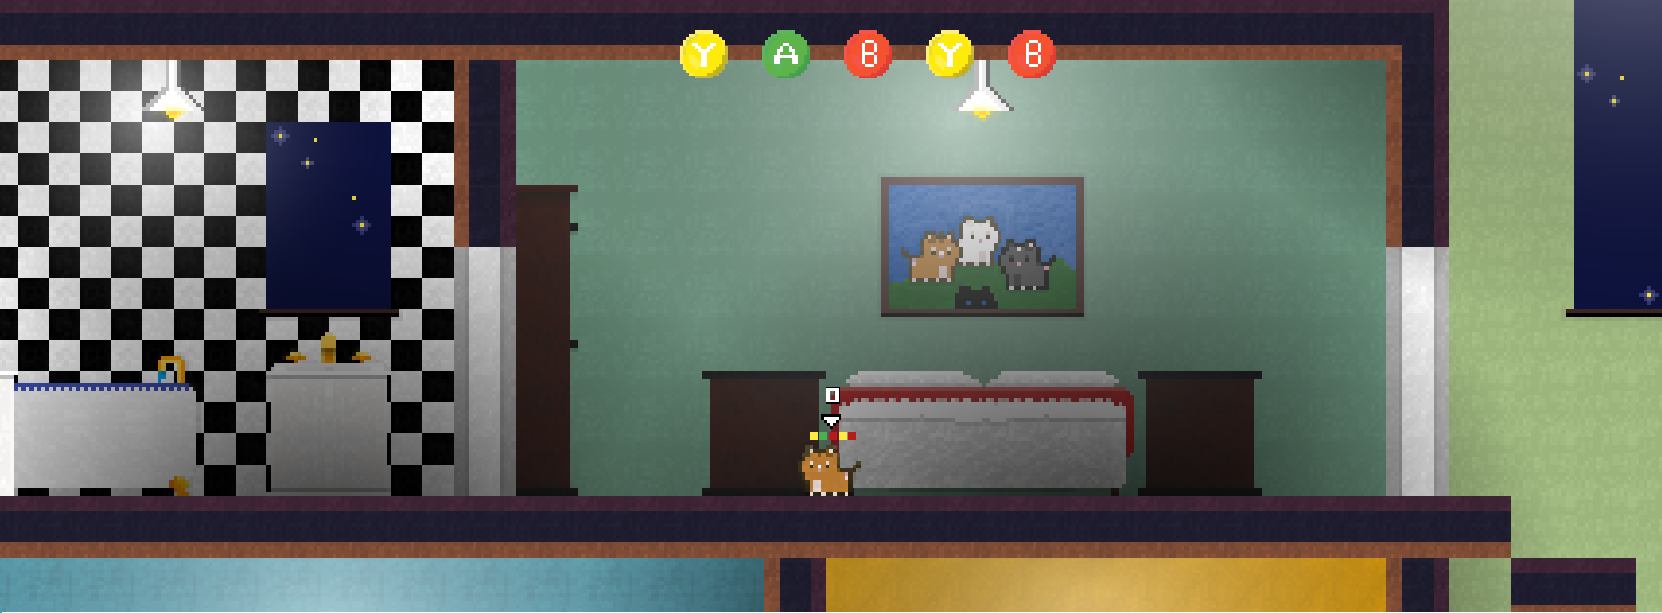
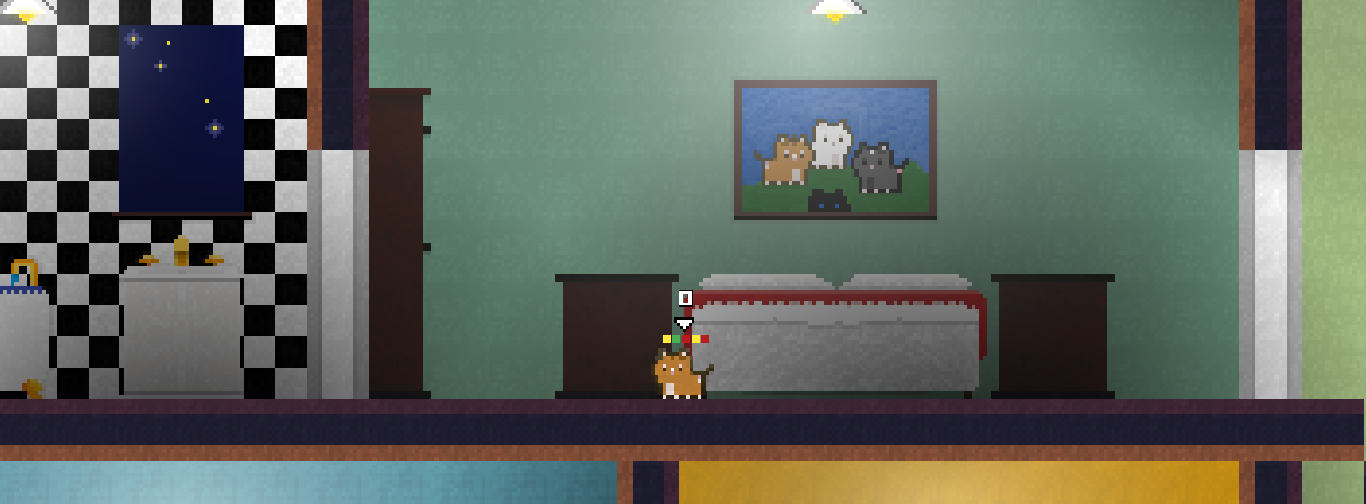
Added new hero image

diff --git a/_includes/header.html b/_includes/header.html
@@ -18,7 +18,7 @@
 
     <div class="social">
         <div class="wrapper fit">
-            <a class="twitter">
+            <a class="twitter" href="https://twitter.com/indiegluedev" target="_blank">
                 <svg 
                     xmlns="http://www.w3.org/2000/svg" 
                     viewBox="0 0 24 24" 
@@ -27,17 +27,8 @@
                         <path d="M20,2H4C2.9,2,2,2.9,2,4l0,16c0,1.1,0.9,2,2,2h16c1.1,0,2-0.9,2-2V4C22,2.9,21.1,2,20,2z M17.7,9.3c-0.1,4.6-3,7.8-7.4,8c-1.8,0.1-3.1-0.5-4.3-1.2c1.3,0.2,3-0.3,3.9-1.1c-1.3-0.1-2.1-0.8-2.5-1.9c0.4,0.1,0.8,0,1.1,0c-1.2-0.4-2-1.1-2.1-2.7c0.3,0.2,0.7,0.3,1.1,0.3c-0.9-0.5-1.5-2.4-0.8-3.6c1.3,1.4,2.9,2.6,5.5,2.8c-0.7-2.8,3.1-4.3,4.6-2.4c0.7-0.1,1.2-0.4,1.7-0.6c-0.2,0.7-0.6,1.1-1.1,1.5c0.5-0.1,1-0.2,1.4-0.4C18.7,8.5,18.2,8.9,17.7,9.3z"></path>
                     </g>
                 </svg>
-            </a>
-            <a class="facebook">
-                <svg xmlns="http://www.w3.org/2000/svg" 
-                    viewBox="0 0 24 24" 
-                    style="pointer-events: none; display: block;">
-                    <g id="post-facebook">
-                        <path d="M20,2H4C2.9,2,2,2.9,2,4l0,16c0,1.1,0.9,2,2,2h16c1.1,0,2-0.9,2-2V4C22,2.9,21.1,2,20,2z M19,4v3h-2c-0.6,0-1,0.4-1,1v2h3v3h-3v7h-3v-7h-2v-3h2V7.5C13,5.6,14.6,4,16.5,4H19z"></path>
-                    </g>
-                </svg>
-            </a>
-            <a class="youtube">
+            </a>           
+            <a class="youtube" href="https://www.youtube.com/channel/UCuZSLNPT8cuP6bNuUg85NBA?view_as=subscriber" target="_blank">
                 <svg xmlns="http://www.w3.org/2000/svg" 
                     viewBox="0 0 24 24" 
                     style="pointer-events: none; display: block;">

diff --git a/_includes/footer.html b/_includes/footer.html
@@ -4,7 +4,7 @@
   
     <div class="col-wrapper">          
       <div class="wrapper fit social">
-          <a class="twitter">
+          <a class="twitter" href="https://twitter.com/indiegluedev" target="_blank">
               <svg 
                   xmlns="http://www.w3.org/2000/svg" 
                   viewBox="0 0 24 24" 
@@ -13,17 +13,8 @@
                       <path d="M20,2H4C2.9,2,2,2.9,2,4l0,16c0,1.1,0.9,2,2,2h16c1.1,0,2-0.9,2-2V4C22,2.9,21.1,2,20,2z M17.7,9.3c-0.1,4.6-3,7.8-7.4,8c-1.8,0.1-3.1-0.5-4.3-1.2c1.3,0.2,3-0.3,3.9-1.1c-1.3-0.1-2.1-0.8-2.5-1.9c0.4,0.1,0.8,0,1.1,0c-1.2-0.4-2-1.1-2.1-2.7c0.3,0.2,0.7,0.3,1.1,0.3c-0.9-0.5-1.5-2.4-0.8-3.6c1.3,1.4,2.9,2.6,5.5,2.8c-0.7-2.8,3.1-4.3,4.6-2.4c0.7-0.1,1.2-0.4,1.7-0.6c-0.2,0.7-0.6,1.1-1.1,1.5c0.5-0.1,1-0.2,1.4-0.4C18.7,8.5,18.2,8.9,17.7,9.3z"></path>
                   </g>
               </svg>
-          </a>
-          <a class="facebook">
-              <svg xmlns="http://www.w3.org/2000/svg" 
-                  viewBox="0 0 24 24" 
-                  style="pointer-events: none; display: block;">
-                  <g id="post-facebook">
-                      <path d="M20,2H4C2.9,2,2,2.9,2,4l0,16c0,1.1,0.9,2,2,2h16c1.1,0,2-0.9,2-2V4C22,2.9,21.1,2,20,2z M19,4v3h-2c-0.6,0-1,0.4-1,1v2h3v3h-3v7h-3v-7h-2v-3h2V7.5C13,5.6,14.6,4,16.5,4H19z"></path>
-                  </g>
-              </svg>
-          </a>
-          <a class="youtube">
+          </a>        
+          <a class="youtube" href="https://www.youtube.com/channel/UCuZSLNPT8cuP6bNuUg85NBA?view_as=subscriber" target="_blank">
               <svg xmlns="http://www.w3.org/2000/svg" 
                   viewBox="0 0 24 24" 
                   style="pointer-events: none; display: block;">

diff --git a/_sass/_layout.scss b/_sass/_layout.scss
@@ -82,13 +82,11 @@
 }
 
 .hero{
-    background: url(../assets/hero.png) no-repeat center center fixed; 
-    background-position-y: -11.8em;
-    -webkit-background-size: cover;
-    -moz-background-size: cover;   
-    width: 100%;
-    height: 39.5em;
-    margin-top: -3em;
+    img{
+        width: 100%;
+        float:left;
+        margin-top: -6.2em;
+    }
 }
 
 .hero-overlay{
@@ -106,6 +104,7 @@
         transition: 0.1s all ease-in-out;  
         border-left: 0 solid $text-color;     
         cursor: pointer;  
+        margin-top: -3em;
 
         &:hover{
             margin-right: -2em;  
@@ -309,3 +308,25 @@
     
 }
 
+/*
+ *  Post
+ */
+.post-header{
+    float: left;
+    width: 100%;
+    margin-bottom: 0.5em;
+
+    .post-title{
+        float: left;        
+    }
+   
+    .post-meta{
+        float: right;
+    }
+}
+
+.post-content{
+    p{
+        margin: 0.5em 0;
+    }
+}

diff --git a/index.html b/index.html
@@ -25,10 +25,12 @@ layout: default
             </div>            
         </div>
     </div>
-    <div class="hero"></div>
+    <div class="hero">
+        <img src="assets/screenshot.png" />
+    </div>
     <div class="home-container">
         <div class="about">
-            High Cats is a fast pace racing/puzzle game where you work together as a team to win, but also race each other for the highest score. Artemis, Keisha, Ninja and Zoey lead a tranquil life, as one would expect of cats, until Artemis stumbles upon a catnip plant.
+            High Cats is a fast pace racing game where you work together as a team to win, but also race each other for the highest score. 
         </div>
         <div class="newsletter">
             <div class="wrapper fit">
